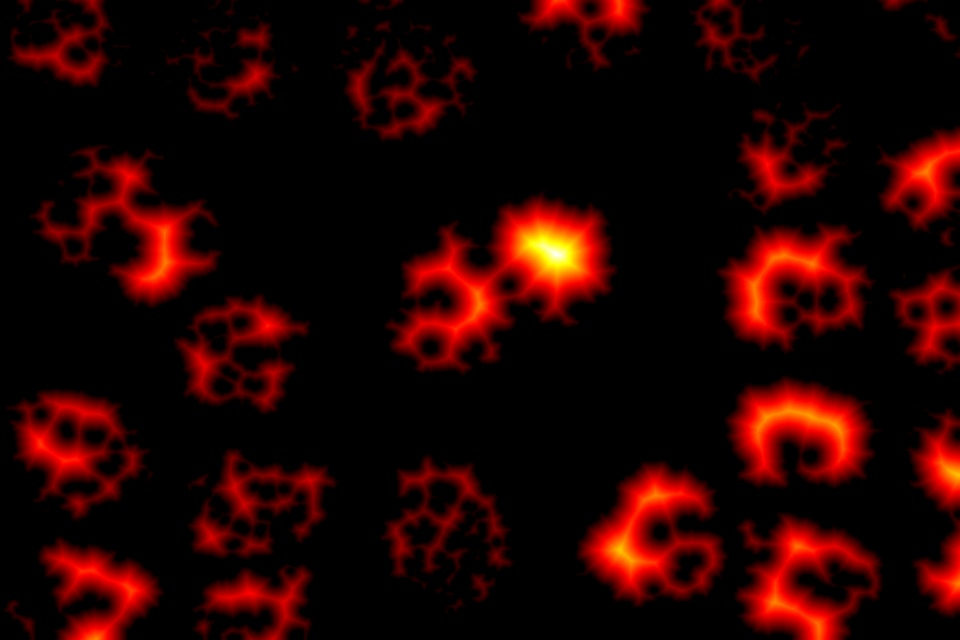
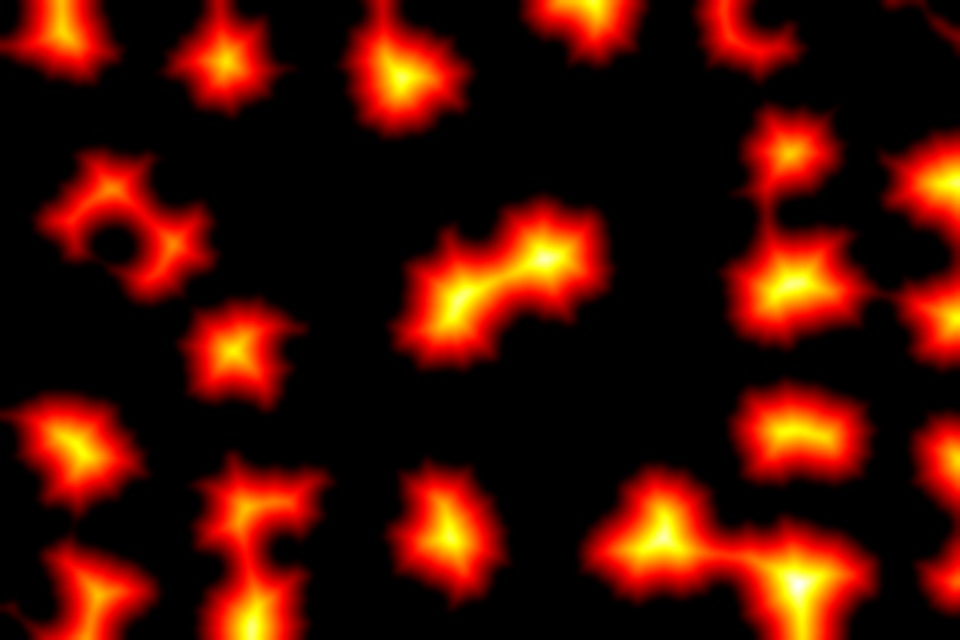
Upload final working tree detection code and dashboard

diff --git a/week2_practice.py b/week2_practice.py
@@ -3,46 +3,85 @@ import numpy as np
 import matplotlib.pyplot as plt
 import os
 
-# 1. Load your real drone picture
+# Empêcher Matplotlib de chercher un écran graphique
+import matplotlib
+matplotlib.use('Agg')
+
+# 1. Charger l'image du drone
 image_name = 'real_drone_map.jpg'
 field = cv2.imread(image_name)
 
-# 2. Find the green trees (Make a mask)
+if field is None:
+    print(f"❌ Erreur : Impossible de charger l'image '{image_name}'.")
+    exit()
+
+# 2. Isoler la couleur verte (Masque)
 hsv_field = cv2.cvtColor(field, cv2.COLOR_BGR2HSV)
 lower_green = np.array([30, 35, 35])
 upper_green = np.array([90, 255, 255])
 mask = cv2.inRange(hsv_field, lower_green, upper_green)
 
-# 3. Fill the tiny black holes inside the white trees
-kernel = cv2.getStructuringElement(cv2.MORPH_ELLIPSE, (5, 5))
-cleaned_mask = cv2.morphologyEx(mask, cv2.MORPH_CLOSE, kernel)
+# 3. LE SECRET EST ICI : Fusionner les branches avec un grand "Kernel"
+# On passe de (5,5) à (25,25) pour boucher tous les trous du feuillage d'un coup
+kernel_close = cv2.getStructuringElement(cv2.MORPH_ELLIPSE, (25, 25))
+cleaned_mask = cv2.morphologyEx(mask, cv2.MORPH_CLOSE, kernel_close)
 
-# 4. Find the glowing center of each tree
+# On ajoute un petit nettoyage pour effacer les minuscules mauvaises herbes au sol
+kernel_open = cv2.getStructuringElement(cv2.MORPH_ELLIPSE, (5, 5))
+cleaned_mask = cv2.morphologyEx(cleaned_mask, cv2.MORPH_OPEN, kernel_open)
+
+# 4. Trouver le centre (Distance Transform)
+# Maintenant que le masque est un bloc solide, le centre sera parfait
 dist_transform = cv2.distanceTransform(cleaned_mask, cv2.DIST_L2, 5)
-dist_visualization = cv2.normalize(dist_transform, None, 0, 255, cv2.NORM_MINMAX).astype(np.uint8)
+dist_smoothed = cv2.GaussianBlur(dist_transform, (15, 15), 0)
+
+dist_visualization = cv2.normalize(dist_smoothed, None, 0, 255, cv2.NORM_MINMAX).astype(np.uint8)
 heatmap_save = cv2.applyColorMap(dist_visualization, cv2.COLORMAP_HOT)
 
-# 5. Automatically create a folder and save the pictures inside it
+# 5. Comptage
+kernel_max = cv2.getStructuringElement(cv2.MORPH_ELLIPSE, (35, 35))
+local_max = cv2.dilate(dist_smoothed, kernel_max)
+
+# On baisse légèrement le seuil à 0.1 pour être sûr de ne rater aucun petit arbre
+peaks = (dist_smoothed == local_max) & (cleaned_mask > 0) & (dist_smoothed > 0.1 * dist_smoothed.max())
+peaks_8u = np.uint8(peaks * 255)
+
+contours, _ = cv2.findContours(peaks_8u, cv2.RETR_EXTERNAL, cv2.CHAIN_APPROX_SIMPLE)
+tree_count = len(contours)
+
+print(f"==================================================")
+print(f"✅ SUCCÈS : {tree_count} arbres individuels détectés !")
+print(f"==================================================")
+
+# 6. Dessiner les cercles
+field_detected = field.copy()
+for c in contours:
+    ((x, y), _) = cv2.minEnclosingCircle(c)
+    cv2.circle(field_detected, (int(x), int(y)), 8, (0, 255, 0), -1)
+    cv2.circle(field_detected, (int(x), int(y)), 30, (0, 255, 0), 2)
+
+# 7. Sauvegarder
 os.makedirs("output_results", exist_ok=True)
 cv2.imwrite("output_results/cleaned_mask.jpg", cleaned_mask)
 cv2.imwrite("output_results/tree_centers.jpg", heatmap_save)
-print("✅ Success! Pictures saved in the output_results folder.")
+cv2.imwrite("output_results/detected_trees.jpg", field_detected)
 
-# 6. Show the pictures on your screen
-field_rgb = cv2.cvtColor(field, cv2.COLOR_BGR2RGB)
+# 8. Dashboard
+field_rgb = cv2.cvtColor(field_detected, cv2.COLOR_BGR2RGB)
 fig, axes = plt.subplots(1, 3, figsize=(15, 5))
 
 axes[0].imshow(field_rgb)
-axes[0].set_title("1. Real Drone View")
+axes[0].set_title(f"1. Arbres détectés ({tree_count})")
 axes[0].axis('off')
 
 axes[1].imshow(cleaned_mask, cmap='gray')
-axes[1].set_title("2. Cleaned Mask (No Holes)")
+axes[1].set_title("2. Masque solide (Branches fusionnées)")
 axes[1].axis('off')
 
 axes[2].imshow(dist_visualization, cmap='hot')
-axes[2].set_title("3. Glowing Centers")
+axes[2].set_title("3. Centres parfaits")
 axes[2].axis('off')
 
 plt.tight_layout()
-plt.show()
+plt.savefig("output_results/global_dashboard.jpg")
+print("💾 Rapport sauvegardé avec succès.")